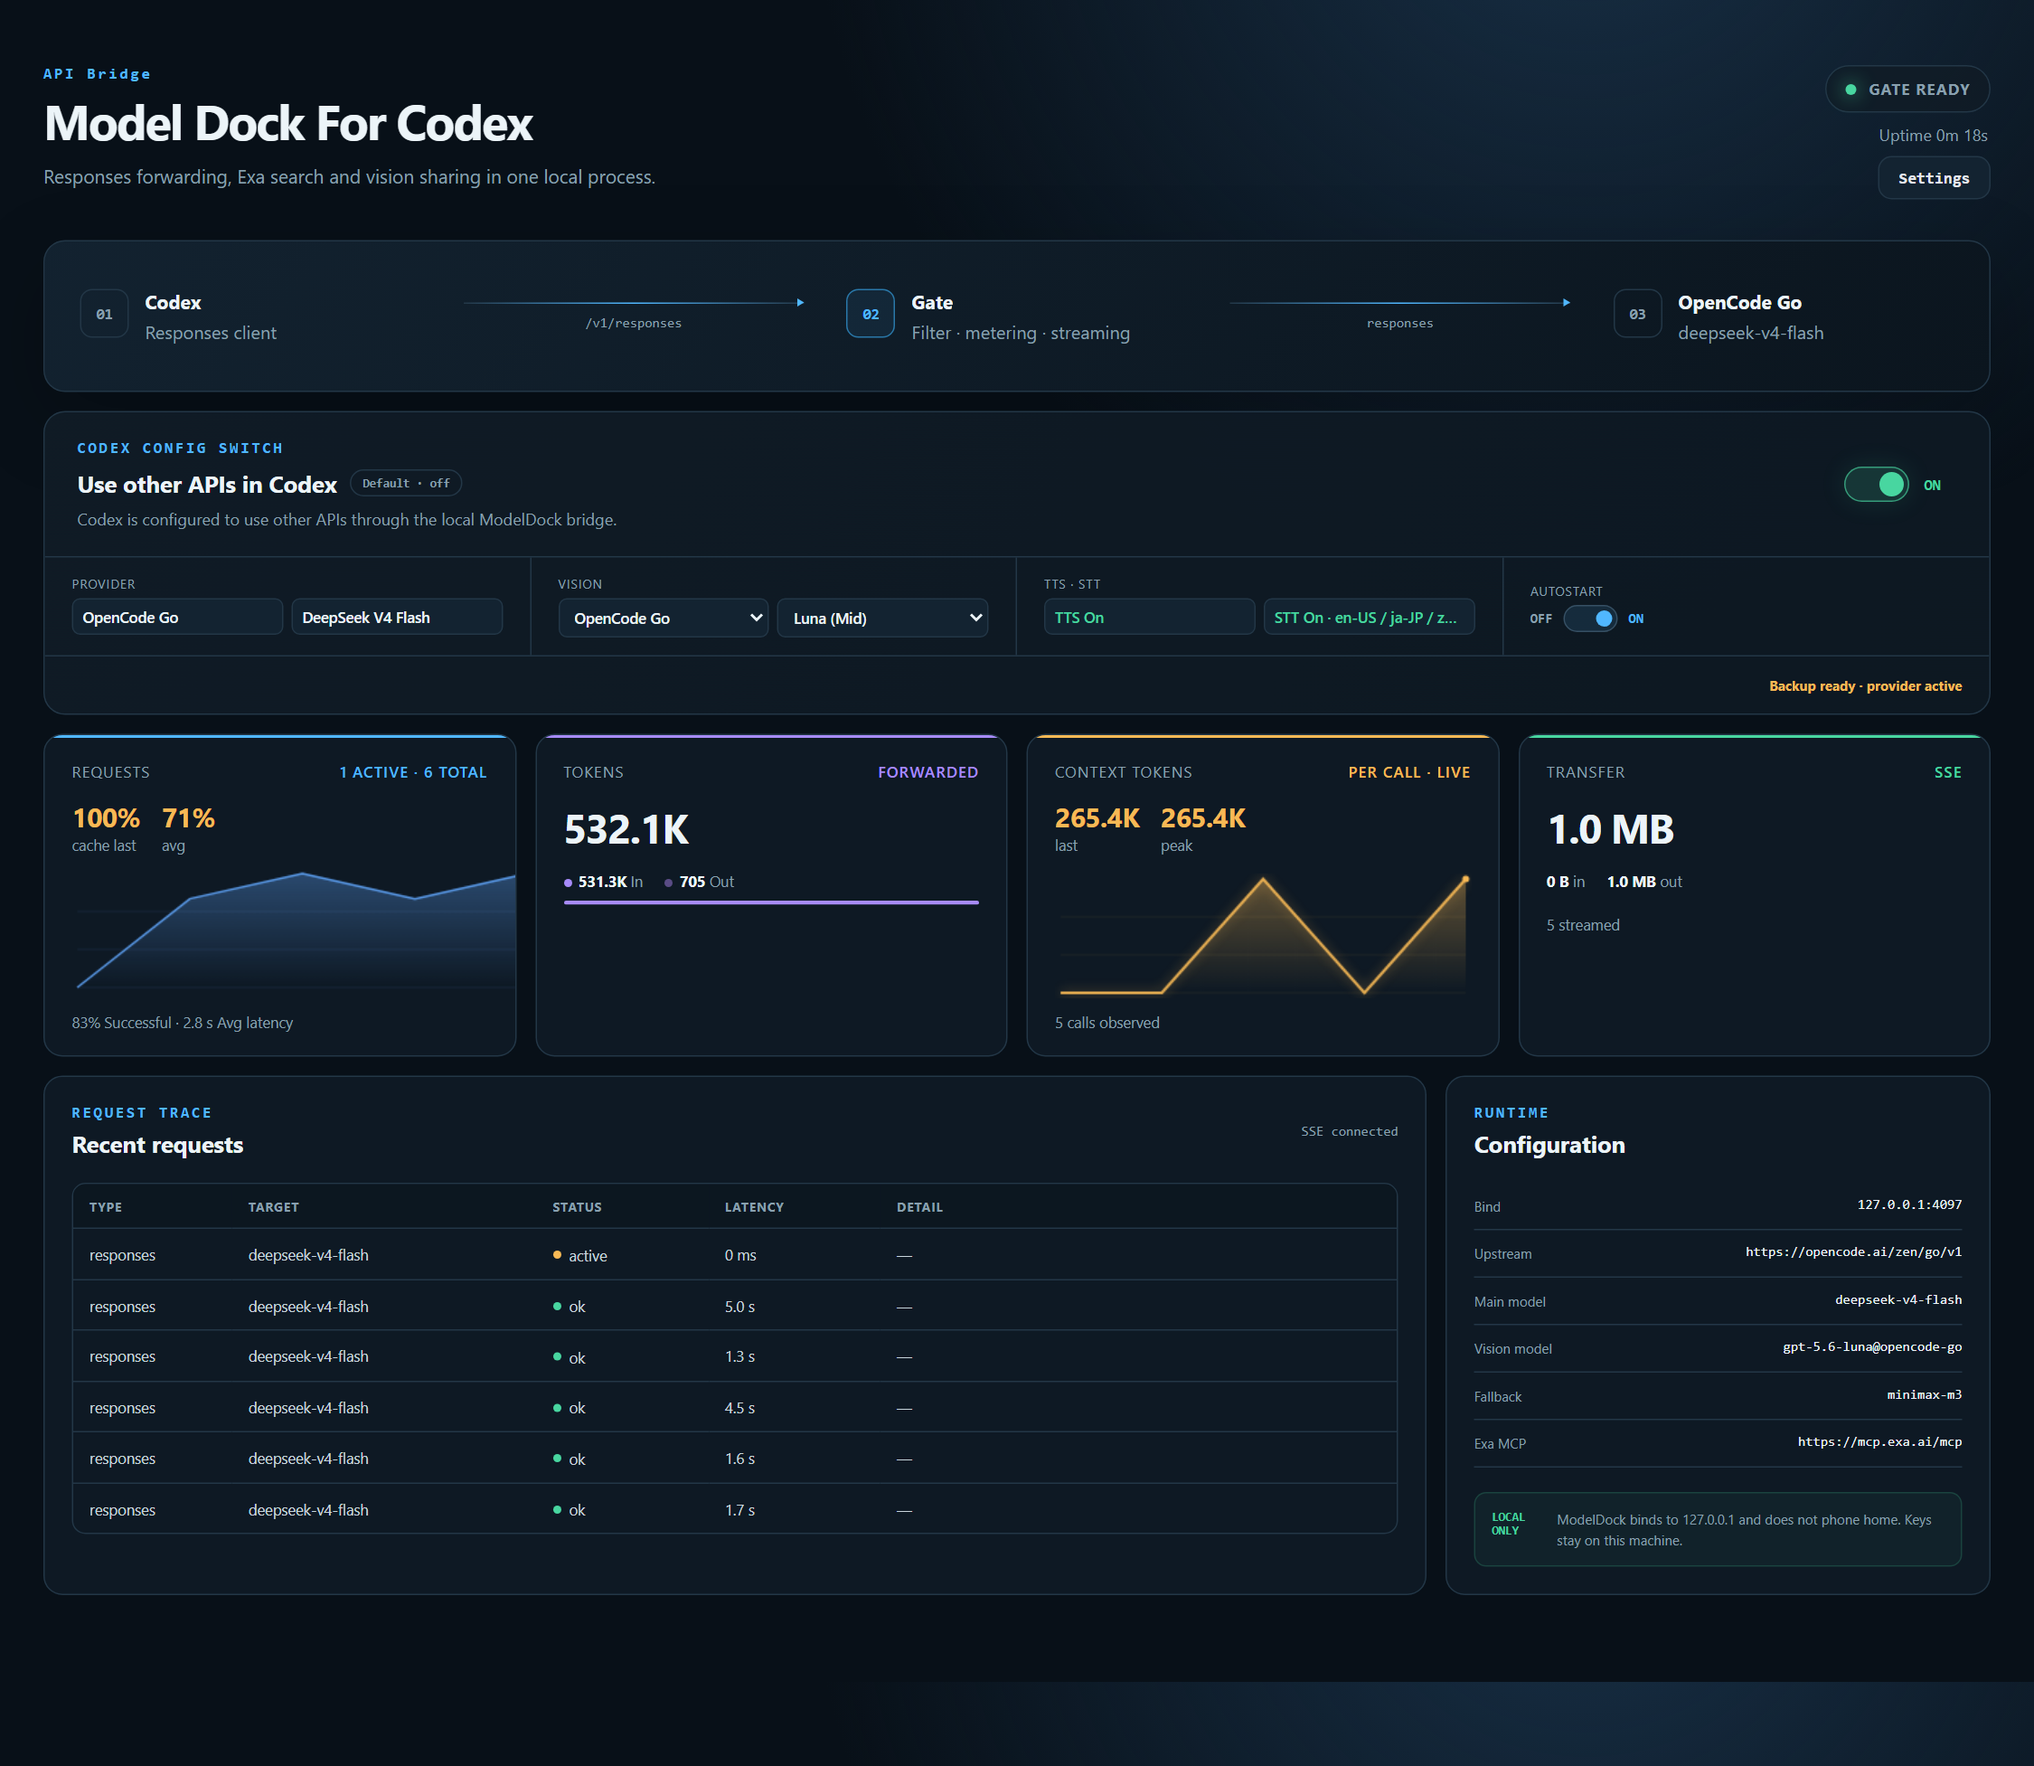
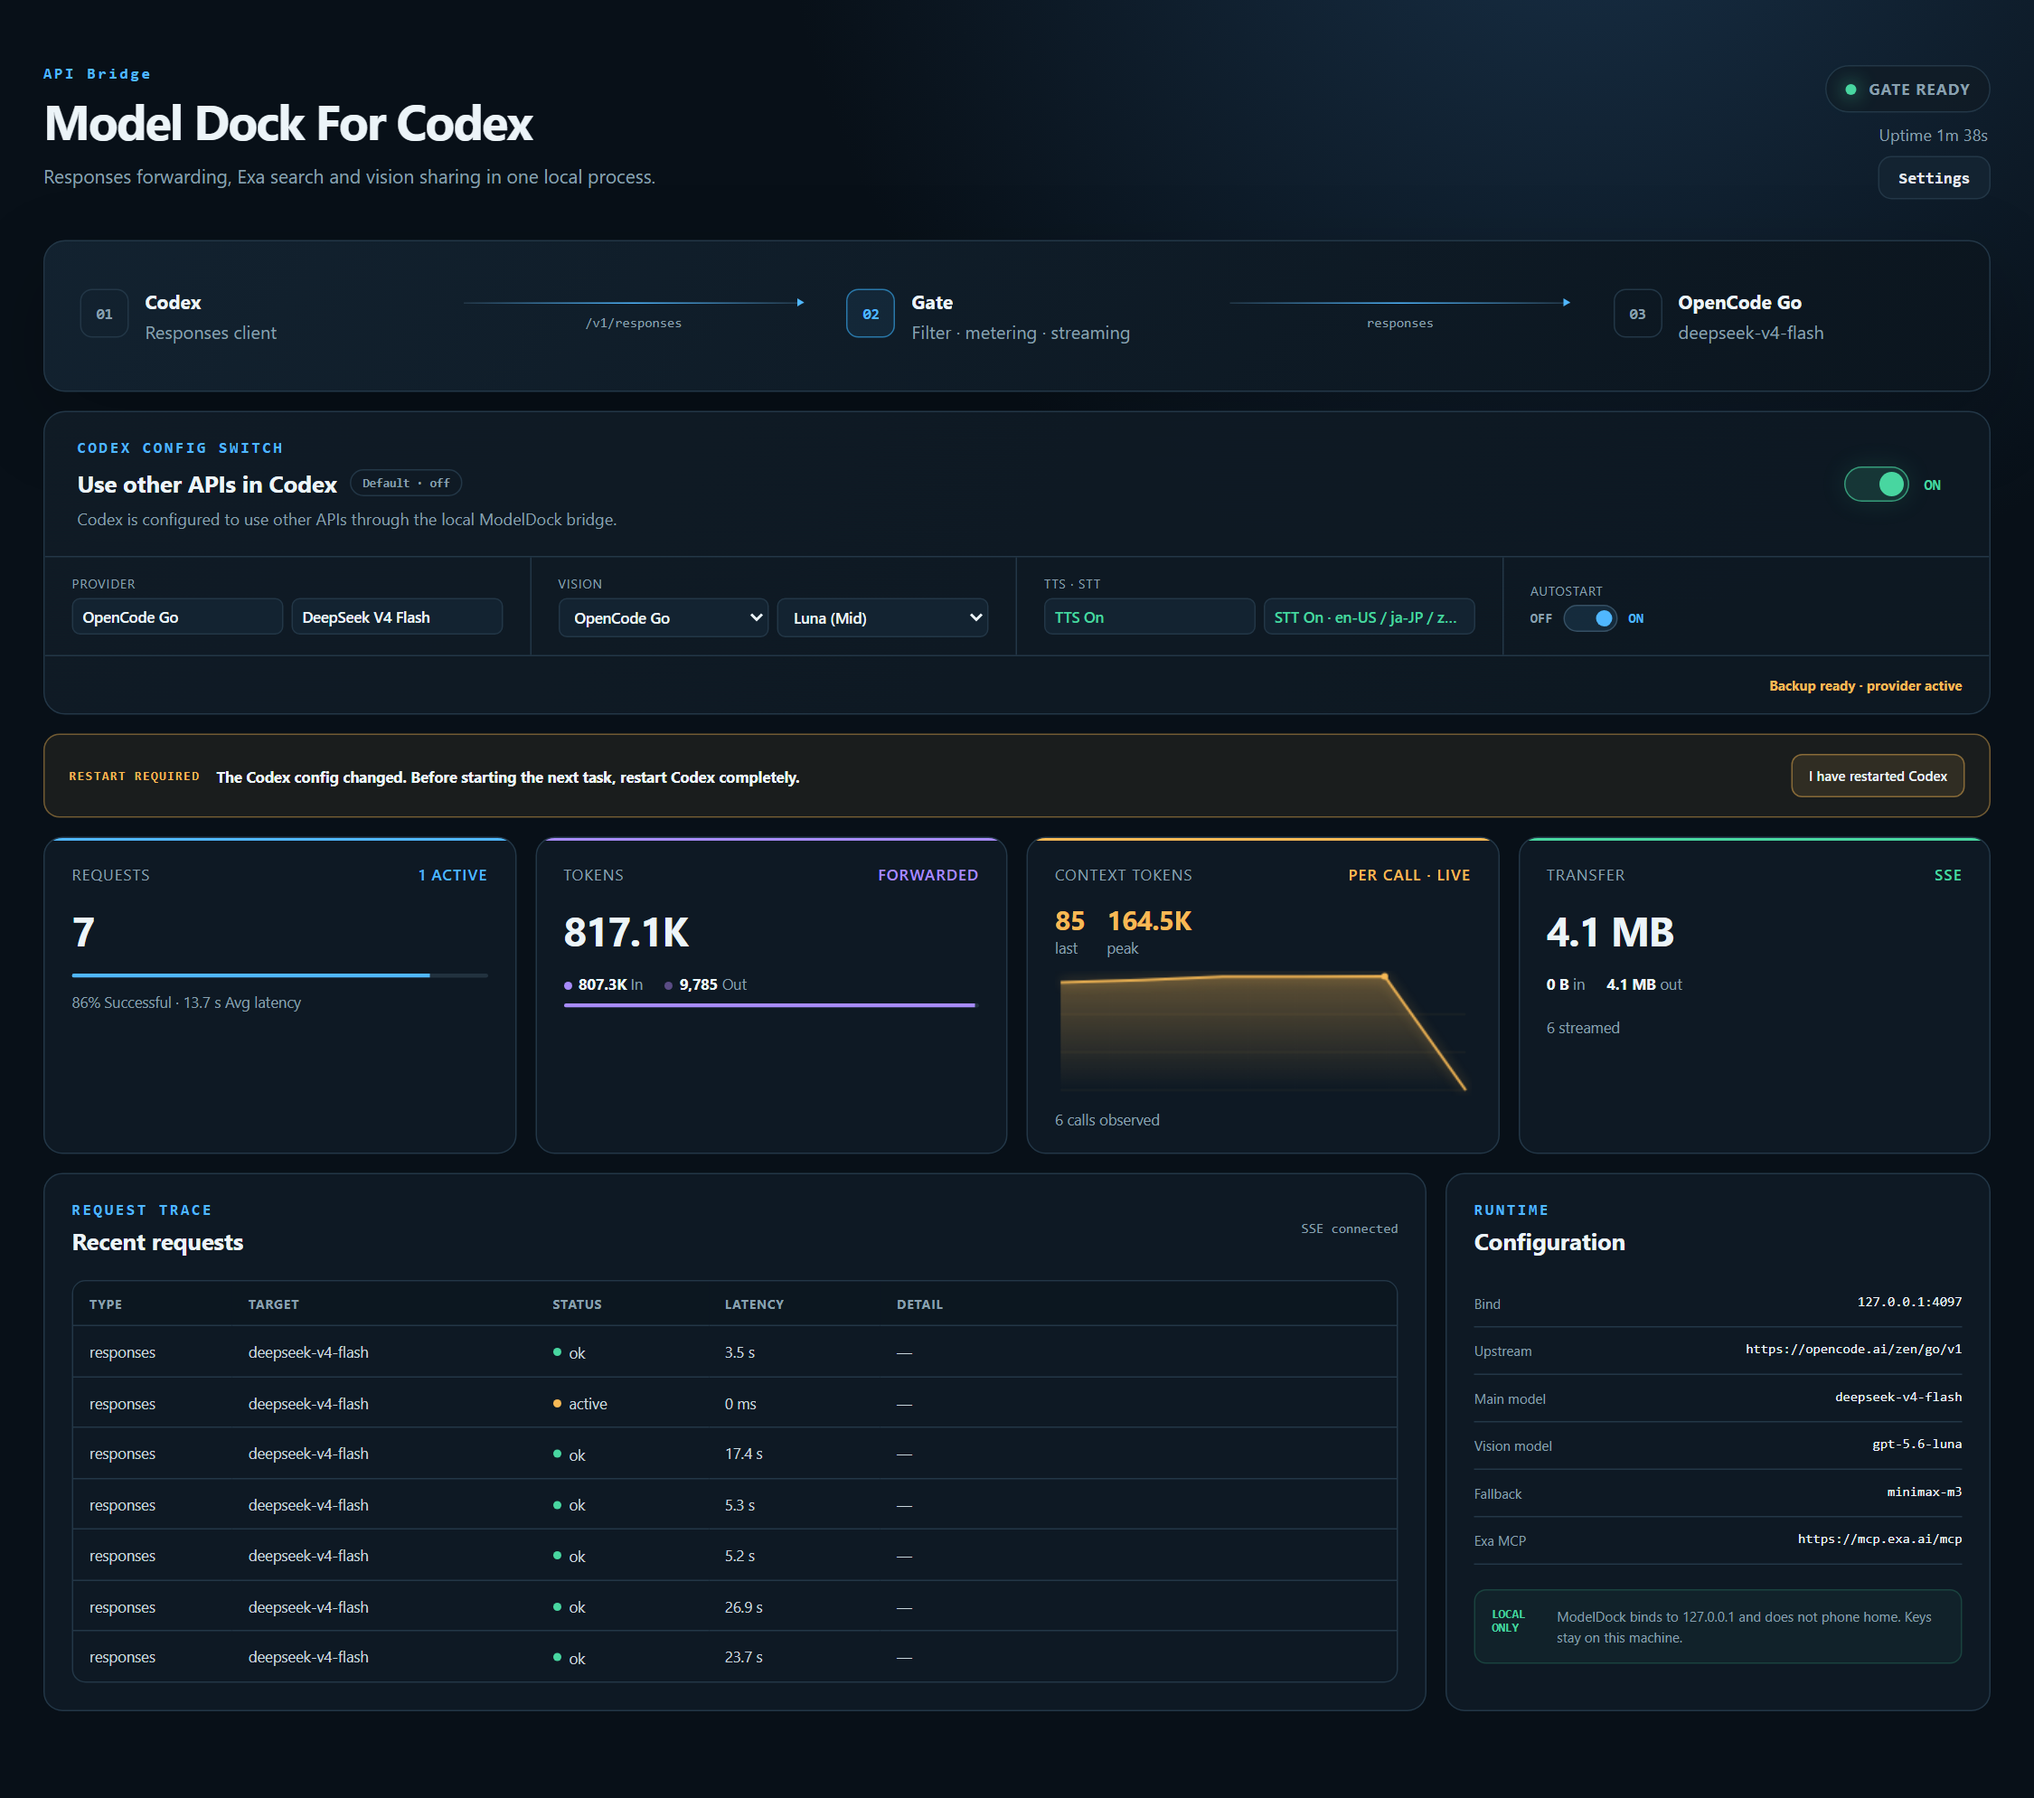
Revert the Requests-card cache waveform frontend (too buggy for now)
Restores the pre-6773f8a Requests card (big total + success meter) and the
i18n set. The backend recording stays: cachedTokens/reasoningTokens still
land on trace records and usage-events.jsonl, so a future chart only needs
frontend work.

diff --git a/public/app.js b/public/app.js
@@ -128,79 +128,6 @@ function renderContextWave(recent) {
   drawWave(canvas, waveHistory, peak, waveHover);
 }
 
-
-// Cache-rate waveform on the Requests card: per-call prompt-cache hit rate
-// (cachedTokens / inputTokens) from the same trace records as the context wave.
-// Fixed 0..100% scale - a rate, not a magnitude.
-const cacheHistory = [];
-
-function renderCacheWave(recent) {
-  const canvas = $("cache-wave");
-  if (!canvas) return;
-  const seen = new Set(cacheHistory.map((point) => point.id));
-  for (const item of recent) {
-    if (item.kind !== "responses" || item.status !== "ok" || seen.has(item.id)) continue;
-    const input = Number(item.inputTokens) || 0;
-    if (input <= 0) continue;
-    cacheHistory.push({ id: item.id, t: item.startedAt || 0, v: Math.min(1, (Number(item.cachedTokens) || 0) / input) });
-  }
-  cacheHistory.sort((a, b) => a.t - b.t);
-  if (cacheHistory.length > WAVE_MAX_POINTS) cacheHistory.splice(0, cacheHistory.length - WAVE_MAX_POINTS);
-  const last = cacheHistory.length ? cacheHistory[cacheHistory.length - 1].v : null;
-  const avg = cacheHistory.length ? cacheHistory.reduce((sum, point) => sum + point.v, 0) / cacheHistory.length : null;
-  set("cache-last", last === null ? "—" : `${Math.round(last * 100)}%`);
-  set("cache-avg", avg === null ? "—" : `${Math.round(avg * 100)}%`);
-  drawCacheWave(canvas, cacheHistory);
-}
-
-function drawCacheWave(canvas, history) {
-  const ctx = canvas.getContext("2d");
-  const dpr = window.devicePixelRatio || 1;
-  const width = canvas.clientWidth || canvas.width;
-  const height = canvas.clientHeight || canvas.height;
-  if (canvas.width !== Math.round(width * dpr) || canvas.height !== Math.round(height * dpr)) {
-    canvas.width = Math.round(width * dpr);
-    canvas.height = Math.round(height * dpr);
-  }
-  ctx.setTransform(dpr, 0, 0, dpr, 0, 0);
-  ctx.clearRect(0, 0, width, height);
-  const pad = 4;
-  const plotW = width - pad * 2;
-  const plotH = height - pad * 2;
-  ctx.strokeStyle = "rgba(96,165,250,0.10)";
-  ctx.lineWidth = 1;
-  for (let i = 1; i <= 3; i += 1) {
-    const y = pad + (plotH / 3) * i;
-    ctx.beginPath();
-    ctx.moveTo(pad, y);
-    ctx.lineTo(width - pad, y);
-    ctx.stroke();
-  }
-  const n = history.length;
-  if (n === 0) return;
-  const gradient = ctx.createLinearGradient(0, pad, 0, pad + plotH);
-  gradient.addColorStop(0, "rgba(96,165,250,0.35)");
-  gradient.addColorStop(1, "rgba(96,165,250,0)");
-  ctx.beginPath();
-  ctx.moveTo(pad, pad + plotH);
-  const points = [];
-  history.forEach((point, index) => {
-    const x = pad + (n === 1 ? plotW / 2 : (plotW * index) / (n - 1));
-    const y = pad + plotH - point.v * plotH;
-    points.push([x, y]);
-    ctx.lineTo(x, y);
-  });
-  ctx.lineTo(pad + (n === 1 ? plotW / 2 : plotW), pad + plotH);
-  ctx.closePath();
-  ctx.fillStyle = gradient;
-  ctx.fill();
-  ctx.beginPath();
-  points.forEach(([x, y], index) => (index === 0 ? ctx.moveTo(x, y) : ctx.lineTo(x, y)));
-  ctx.strokeStyle = "rgba(96,165,250,0.9)";
-  ctx.lineWidth = 1.5;
-  ctx.stroke();
-}
-
 function drawWave(canvas, history, peak, hoverIndex = -1) {
   const ctx = canvas.getContext("2d");
   const dpr = window.devicePixelRatio || 1;
@@ -365,6 +292,7 @@ function render(data) {
   set("requests-total", number(responses.total));
   set("requests-success", `${success}%`);
   set("requests-latency", duration(responses.averageLatencyMs));
+  $("requests-success-meter").style.width = `${success}%`;
 
   const inputTokens = responses.inputTokens || 0;
   const outputTokens = responses.outputTokens || 0;
@@ -375,7 +303,6 @@ function render(data) {
   $("token-meter-input").style.width = `${tokens ? Math.round((inputTokens / tokens) * 100) : 0}%`;
 
   renderContextWave(data.recent || []);
-  renderCacheWave(data.recent || []);
   set("bytes-total", bytes(responses.bytesIn + responses.bytesOut));
   set("bytes-in", bytes(responses.bytesIn));
   set("bytes-out", bytes(responses.bytesOut));

diff --git a/public/i18n.js b/public/i18n.js
@@ -29,9 +29,6 @@ const I18N_EN = {
   "lang.ja": "日本語",
   "lang.zh": "简体中文",
   "metric.active": "active",
-  "metric.total": "total",
-  "metric.cacheLast": "cache last",
-  "metric.cacheAvg": "avg",
   "metric.avg": "Avg latency",
   "metric.callsObserved": "calls observed",
   "metric.context": "Context tokens",
@@ -157,9 +154,6 @@ const I18N_ZH = {
   "lang.ja": "日本語",
   "lang.zh": "简体中文",
   "metric.active": "活跃",
-  "metric.total": "总数",
-  "metric.cacheLast": "缓存命中",
-  "metric.cacheAvg": "平均",
   "metric.avg": "平均",
   "metric.callsObserved": "次已观测调用",
   "metric.context": "上下文 Token",
@@ -285,9 +279,6 @@ const I18N_JA = {
   "lang.ja": "日本語",
   "lang.zh": "简体中文",
   "metric.active": "実行中",
-  "metric.total": "合計",
-  "metric.cacheLast": "キャッシュ",
-  "metric.cacheAvg": "平均",
   "metric.avg": "平均遅延",
   "metric.callsObserved": "件の呼び出しを観測",
   "metric.context": "コンテキスト トークン",
@@ -413,7 +404,6 @@ const I18N_FR = {
   "lang.ja": "日本語",
   "lang.zh": "简体中文",
   "metric.active": "en cours",
-  "metric.total": "total",
   "metric.avg": "Latence moyenne",
   "metric.callsObserved": "appels observés",
   "metric.context": "Tokens de contexte",
@@ -539,7 +529,6 @@ const I18N_ES = {
   "lang.ja": "日本語",
   "lang.zh": "简体中文",
   "metric.active": "activas",
-  "metric.total": "totales",
   "metric.avg": "Latencia media",
   "metric.callsObserved": "llamadas observadas",
   "metric.context": "Tokens de contexto",

diff --git a/public/index.html b/public/index.html
@@ -90,12 +90,10 @@
       </section>
 
       <section class="metric-grid">
-        <article class="metric-card accent-blue wave-card">
-          <div class="metric-head"><span data-i18n="metric.requests">Requests</span><b><span id="active-requests">0 active</span> · <span id="requests-total">0</span> <span data-i18n="metric.total">total</span></b></div>
-          <div class="wave-stats"><span><b id="cache-last">—</b> <span data-i18n="metric.cacheLast">cache last</span></span><span><b id="cache-avg">—</b> <span data-i18n="metric.cacheAvg">avg</span></span></div>
-          <div class="wave-wrap">
-            <canvas id="cache-wave" width="340" height="92"></canvas>
-          </div>
+        <article class="metric-card accent-blue">
+          <div class="metric-head"><span data-i18n="metric.requests">Requests</span><b id="active-requests">0 active</b></div>
+          <strong class="metric-value" id="requests-total">0</strong>
+          <div class="meter"><i id="requests-success-meter"></i></div>
           <p><span id="requests-success">0%</span> <span data-i18n="metric.successful">successful</span> · <span id="requests-latency">0 ms</span> <span data-i18n="metric.avg">avg</span></p>
         </article>
         <article class="metric-card accent-violet">
